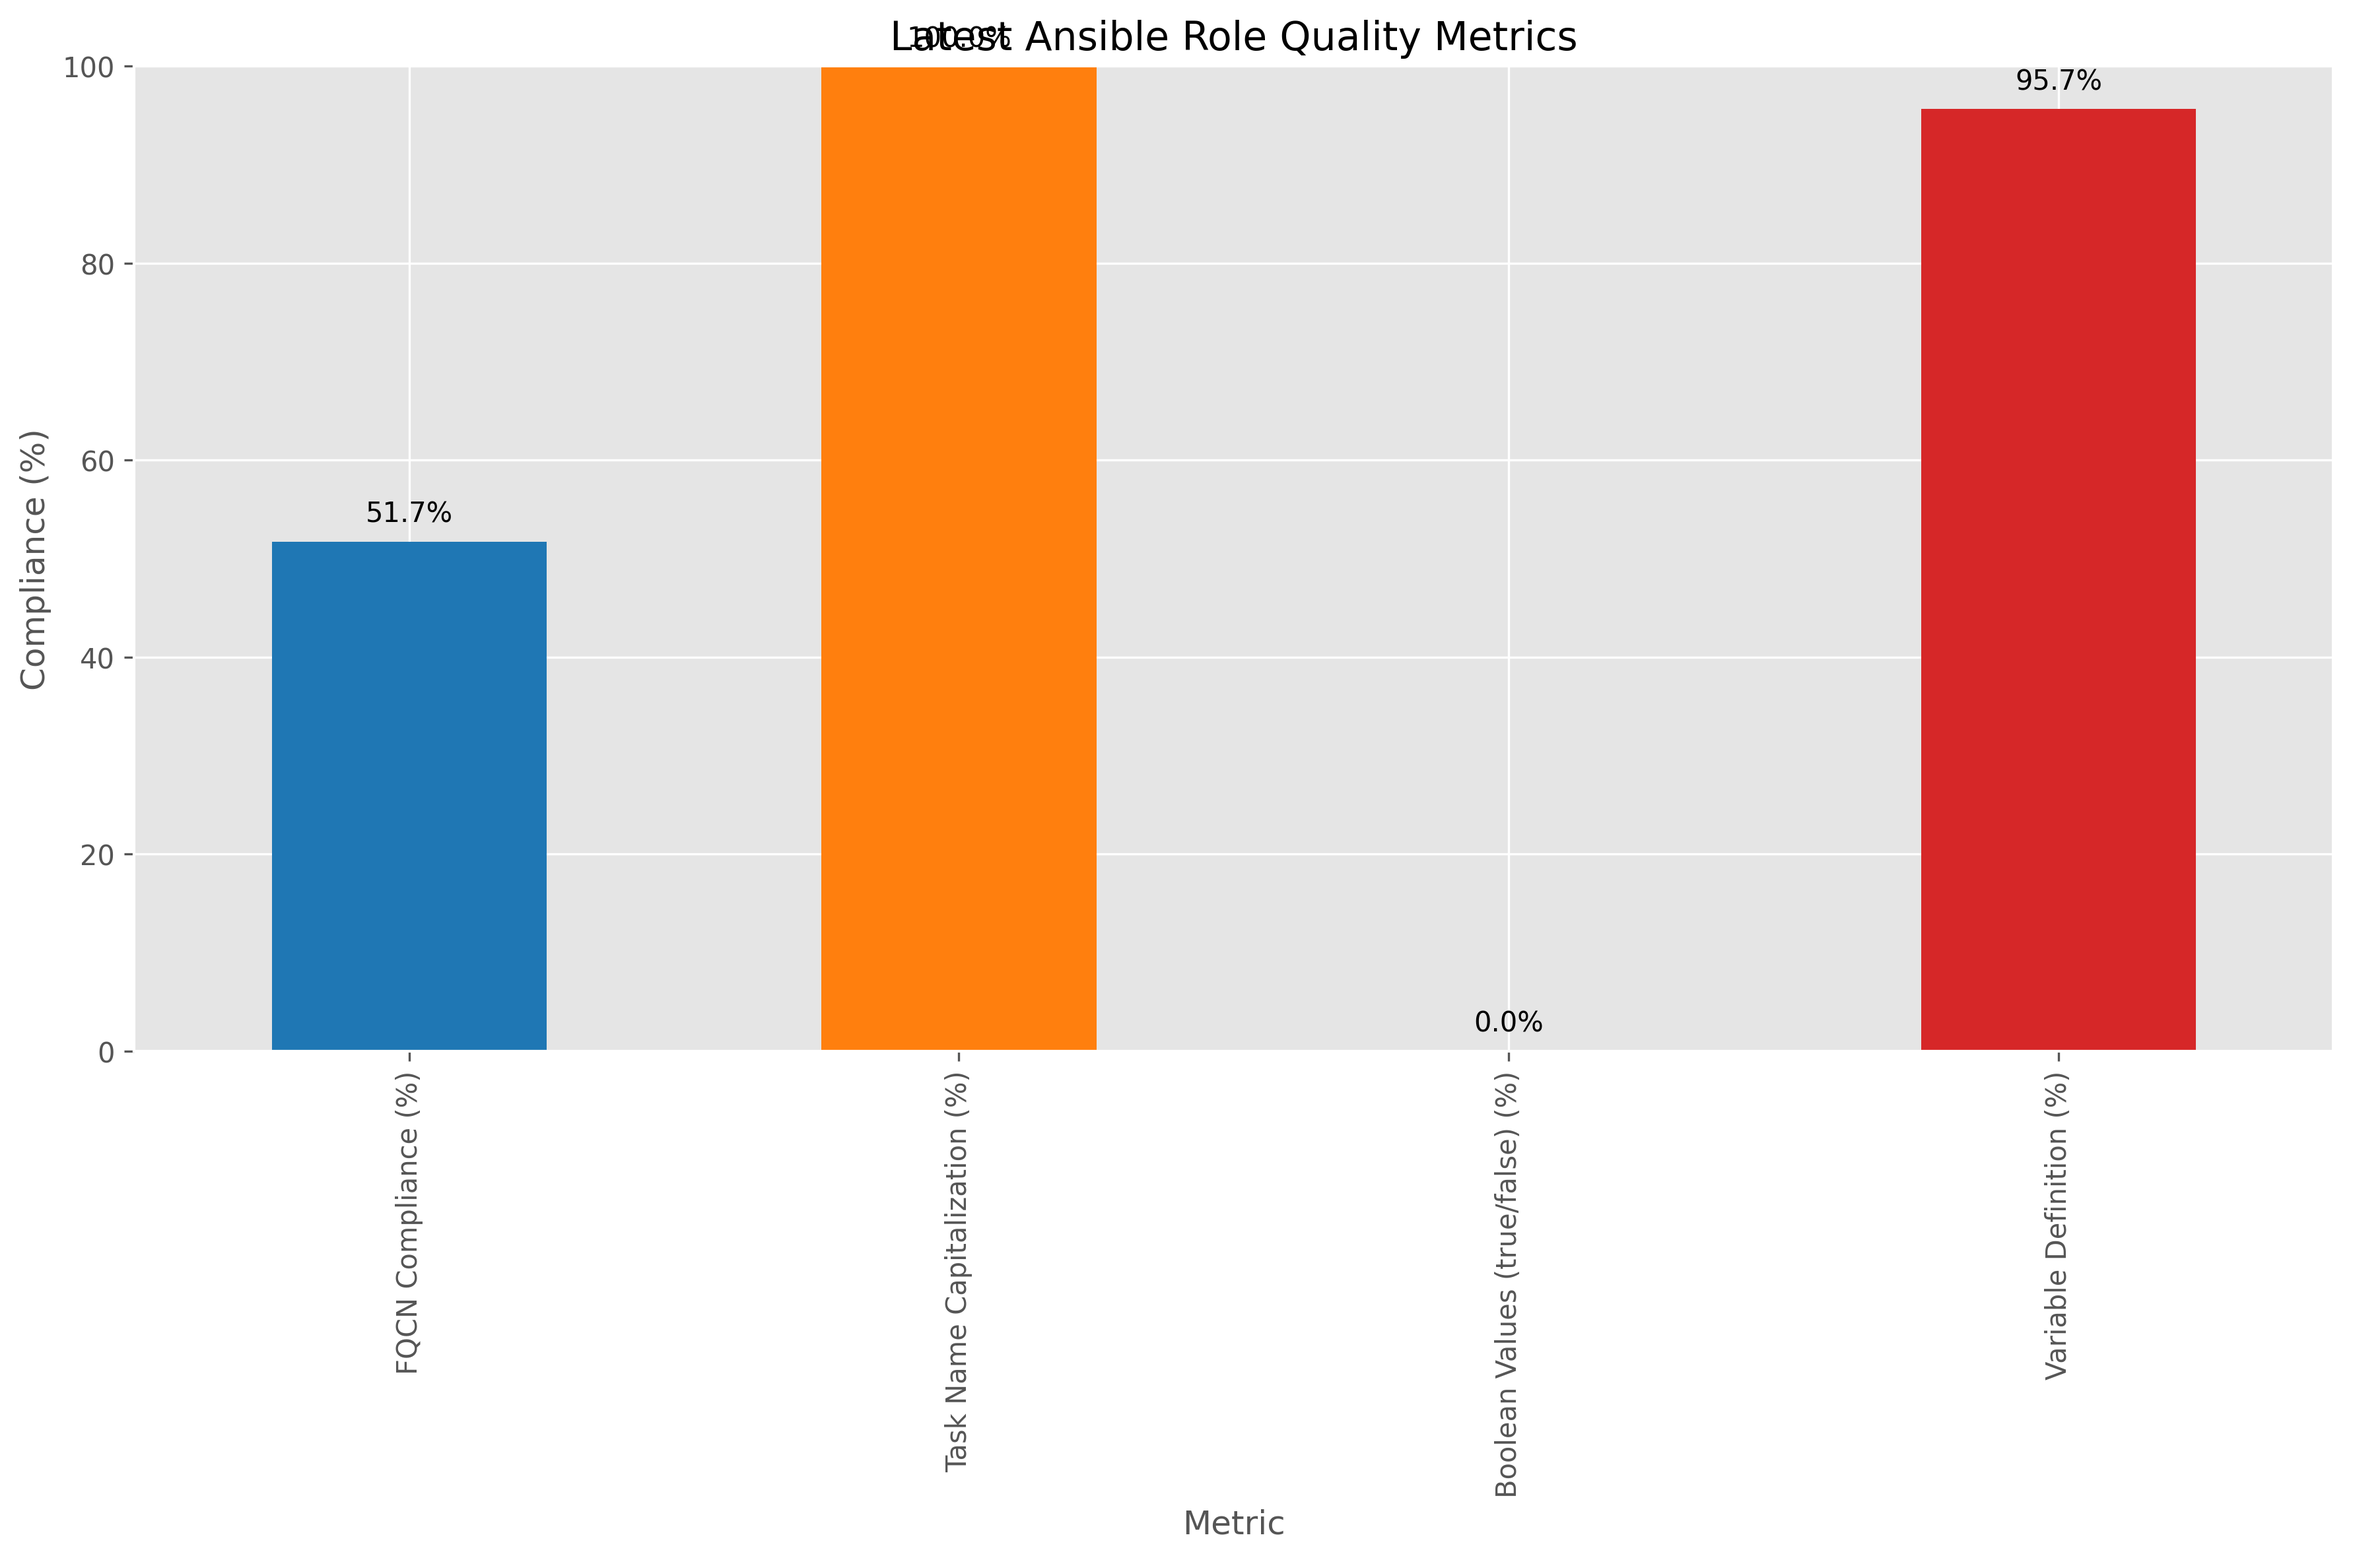
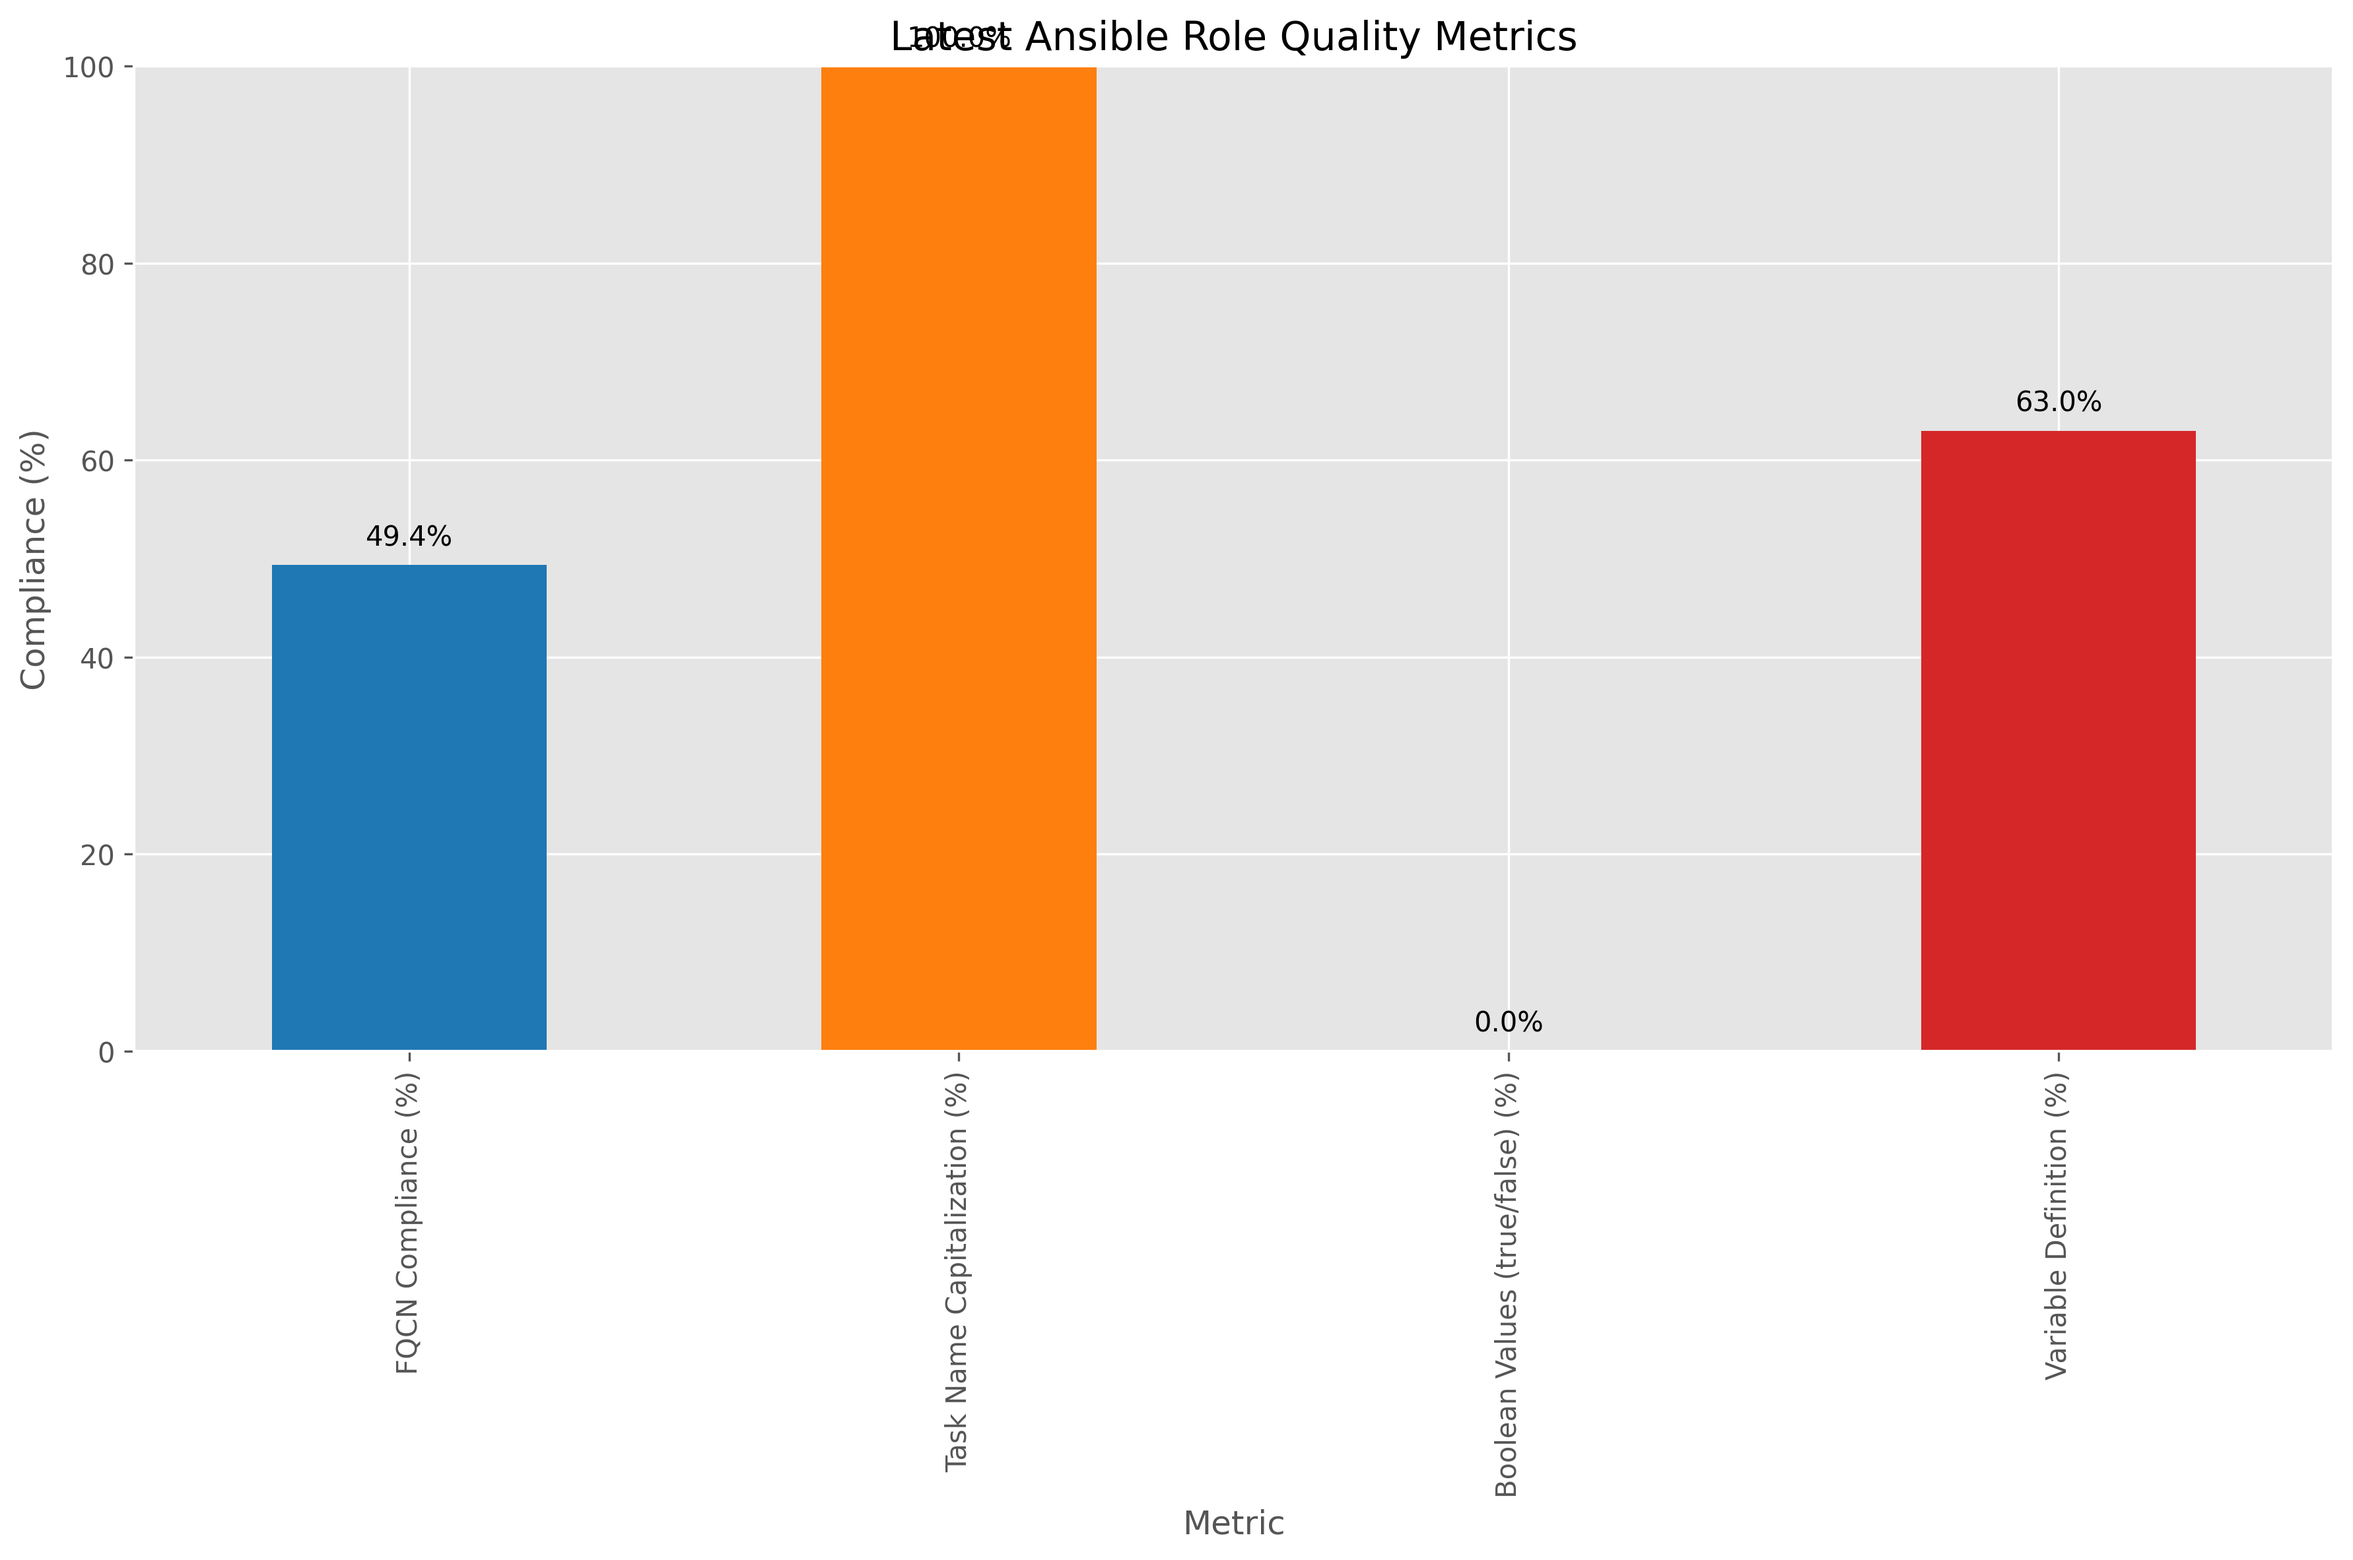
Update metrics (automated) 86381e575e3cb567ae7d61f2b827ec3665fe9a28

Changed region(s): [[0.8098, 0.0618, 0.9343, 0.2779], [0.0934, 0.3088, 0.2492, 0.3706]]

diff --git a/metrics/metrics_summary.md b/metrics/metrics_summary.md
@@ -1,15 +1,15 @@
 # Chef to Ansible Conversion Metrics
 
-Last updated: 2025-11-09 00:28:33
+Last updated: 2025-11-16 00:28:57
 
 ## Latest Compliance Metrics
 
 | Metric | Value |
 |--------|-------|
-| FQCN Compliance (%) | 51.72% |
+| FQCN Compliance (%) | 49.35% |
 | Task Name Capitalization (%) | 100.00% |
 | Boolean Values (true/false) (%) | 0.00% |
-| Variable Definition (%) | 95.65% |
+| Variable Definition (%) | 62.96% |
 
 ## Compliance Metrics Over Time
 
